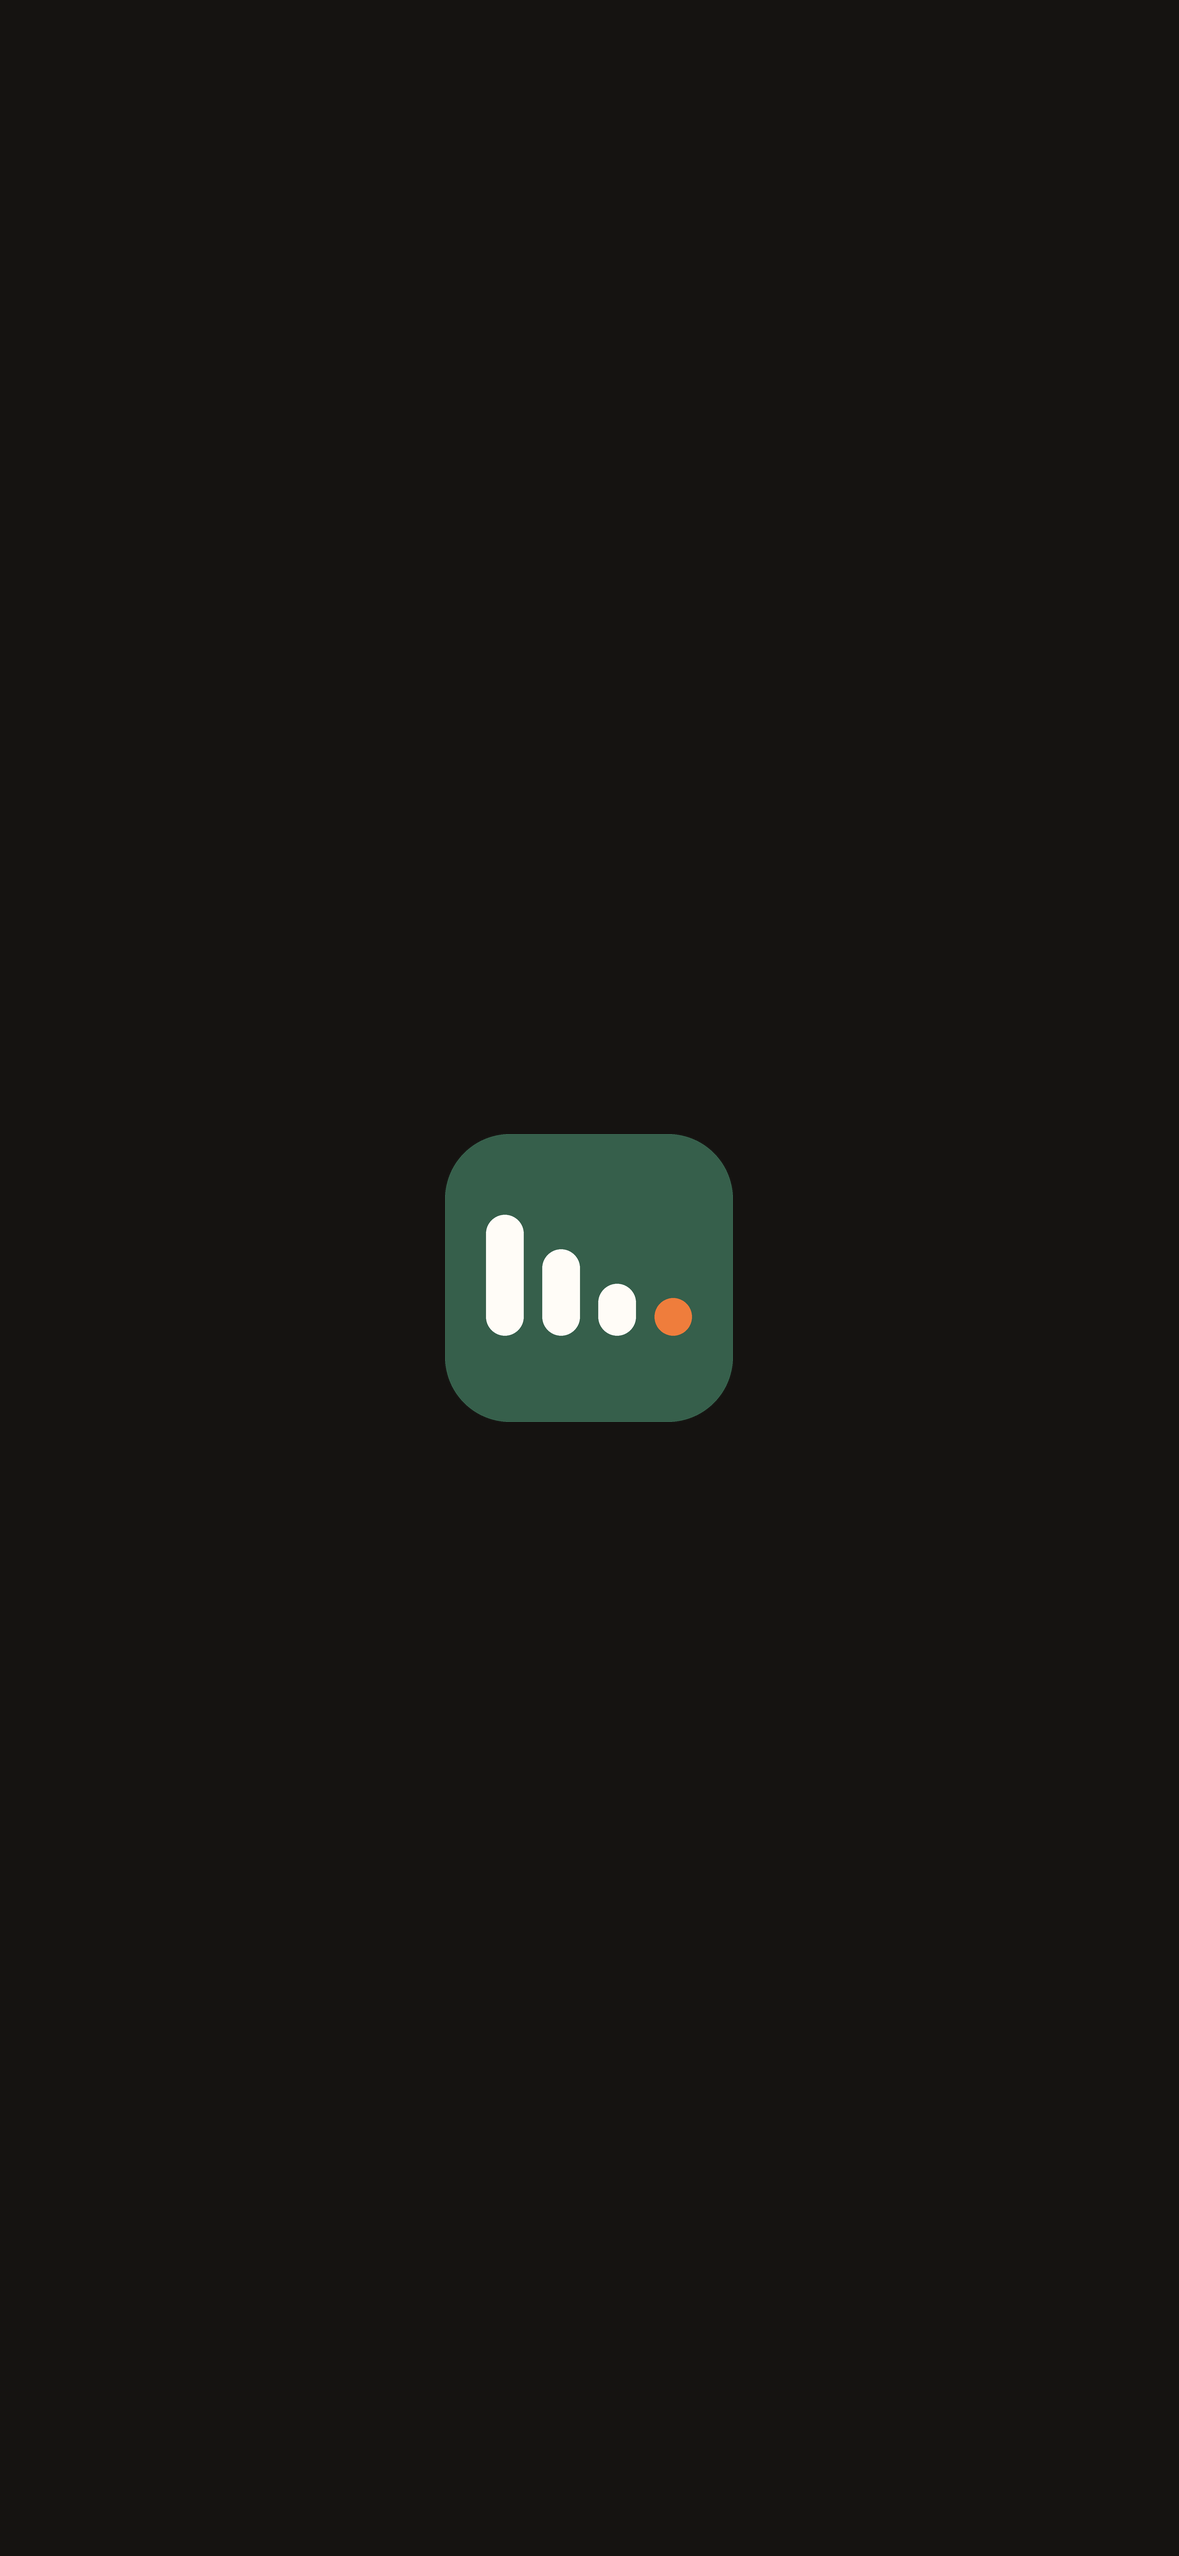
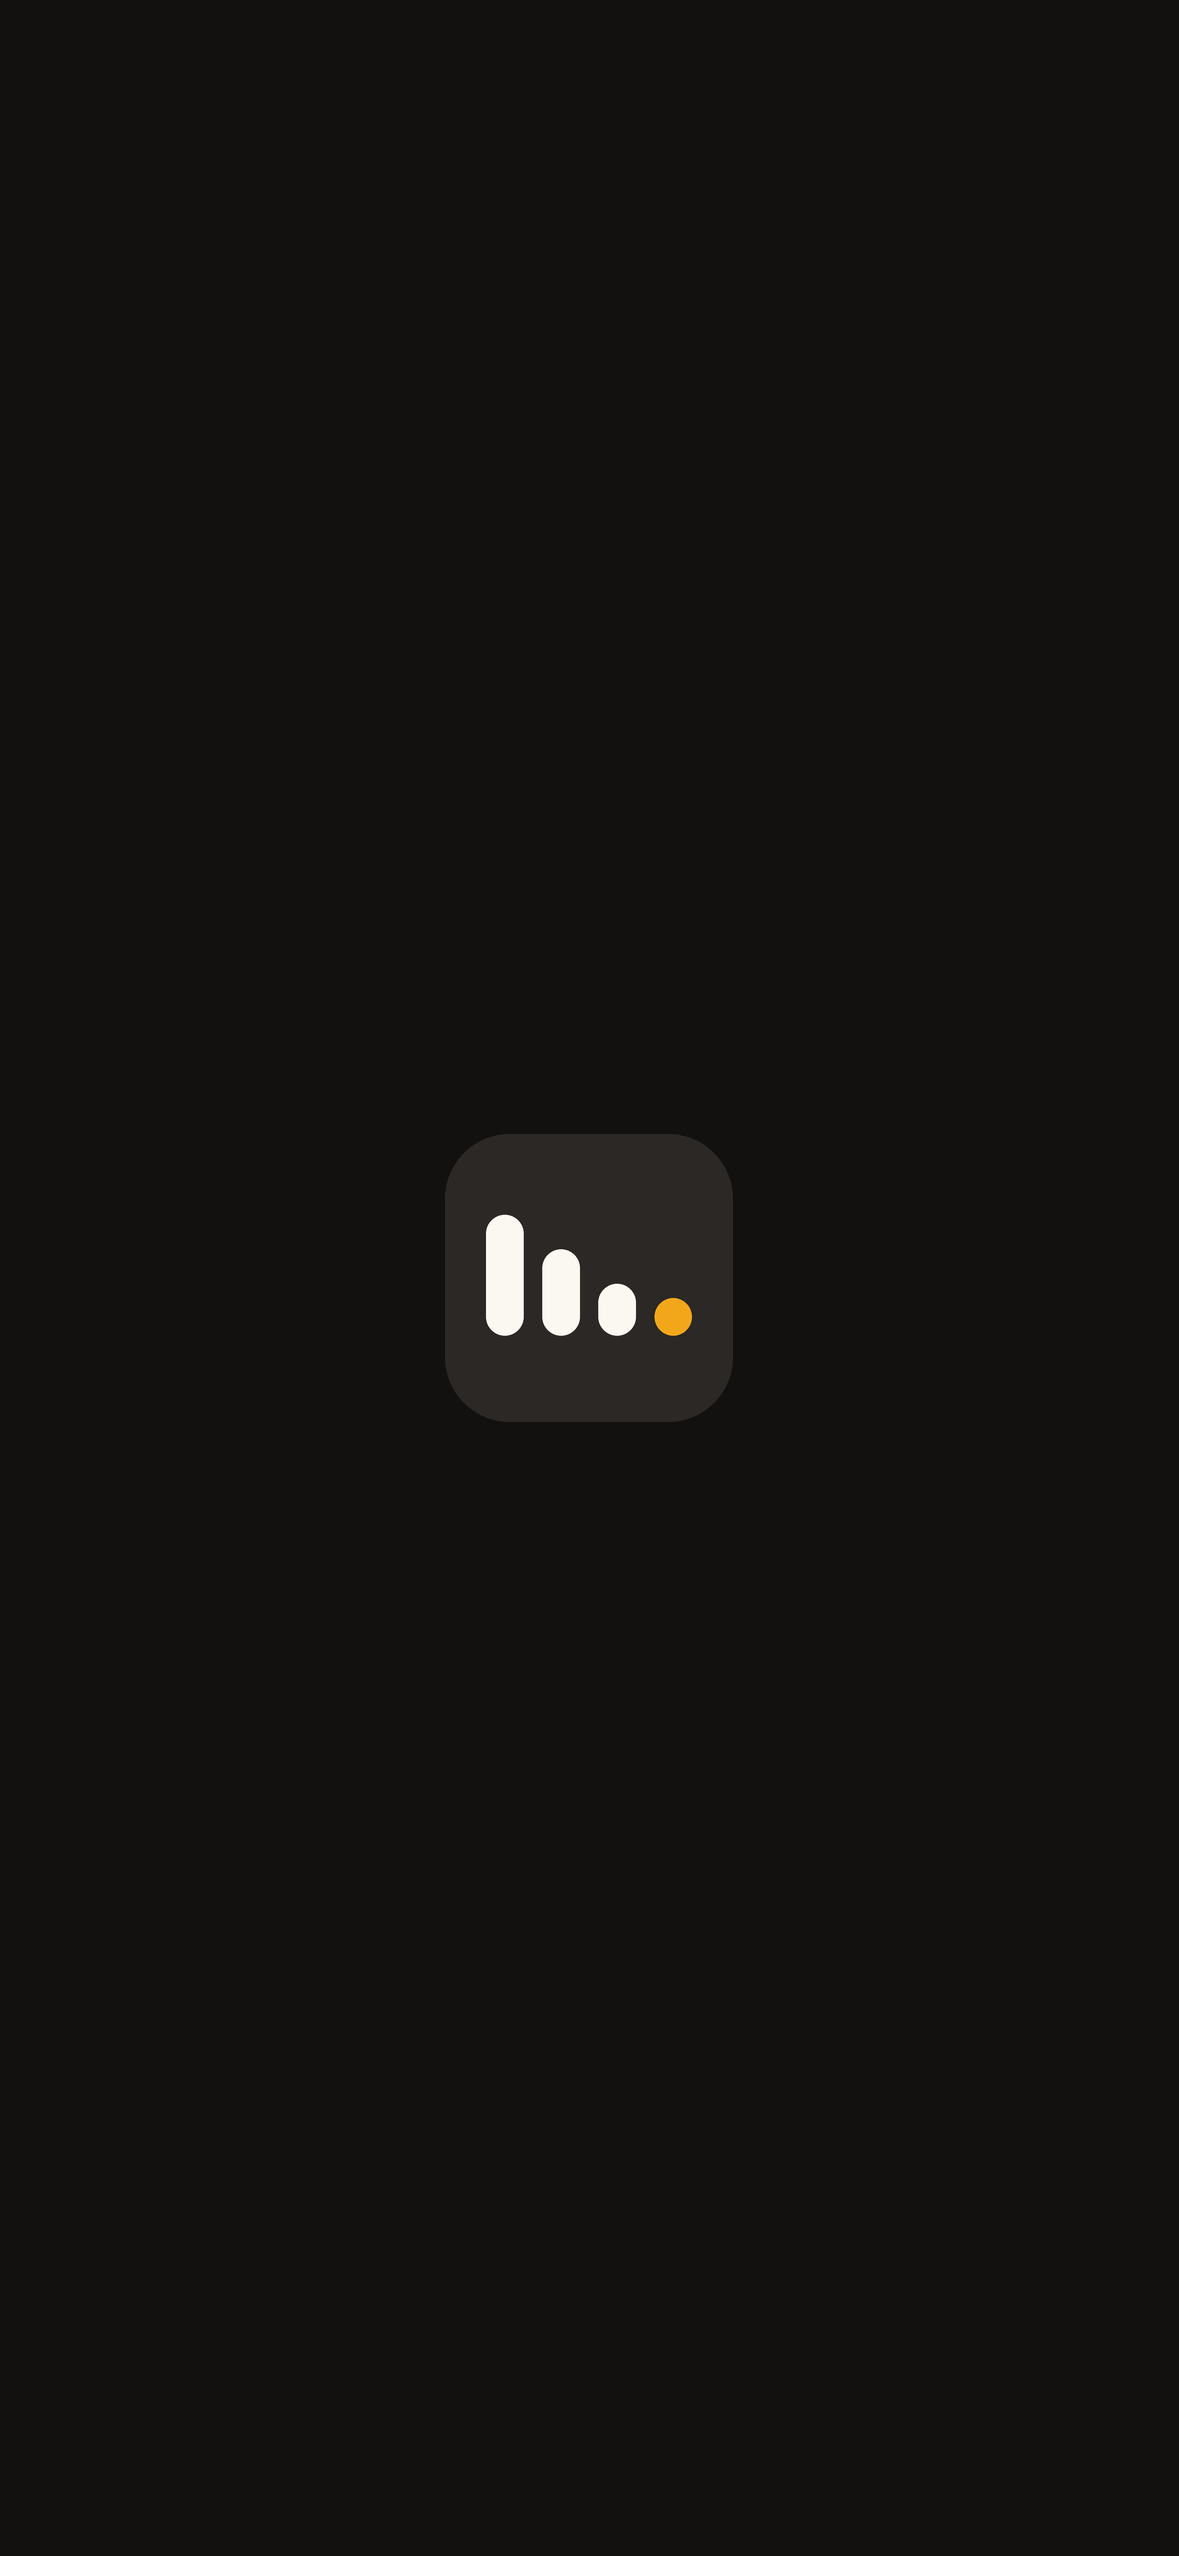
Colores: tinta, cobalto y un rayo de sol (propuesta con apple-design, impeccable y brandkit)
- Neutros casi grises con un punto de calidez, tarjeta de Resumen en tinta, acción en cobalto
- Amarillo caléndula solo en detalles: mes elegido, iniciales de cuenta, punto de hoy, sello de todo pagado
- Iconos de categoría en un solo color; solo Ingreso y Sin categoría llevan color
- Barra de Pagos en verde al llegar al 100 %; icono y arranque nuevos
- Todos los pares de texto pasan AA

Claude-Session: https://claude.ai/code/session_018UgVd8pXpkyY3CYoFP76Vs

Changed region(s): [[0.3664, 0.4327, 0.6412, 0.5563]]

diff --git a/docs/index.html b/docs/index.html
@@ -8,8 +8,8 @@
 <meta name="mobile-web-app-capable" content="yes">
 <meta name="apple-mobile-web-app-title" content="Cuentas">
 <meta name="apple-mobile-web-app-status-bar-style" content="default">
-<meta name="theme-color" content="#f6f1e9" media="(prefers-color-scheme: light)">
-<meta name="theme-color" content="#151311" media="(prefers-color-scheme: dark)">
+<meta name="theme-color" content="#f3f3f1" media="(prefers-color-scheme: light)">
+<meta name="theme-color" content="#121110" media="(prefers-color-scheme: dark)">
 <link rel="apple-touch-icon" href="icon.png">
 <link rel="manifest" href="manifest.json">
 <link rel="apple-touch-startup-image" media="(device-width: 375px) and (device-height: 812px) and (-webkit-device-pixel-ratio: 3) and (prefers-color-scheme: light)" href="arranque-375x812.png">
@@ -34,16 +34,16 @@
 <link rel="apple-touch-startup-image" media="(device-width: 375px) and (device-height: 667px) and (-webkit-device-pixel-ratio: 2) and (prefers-color-scheme: dark)" href="arranque-oscuro-375x667@2x.png">
 <style>
 /* Mis cuentas: una web para el móvil que se maneja como una app de iPhone.
-   Un solo sistema: los tokens de :root. Luz cálida (crema), un color de acción (salvia), uno de detalle
-   (naranja: el mes elegido y la pestaña activa) y color de estado solo para avisar. */
+   Un solo sistema: los tokens de :root. Tinta sobre gris apenas cálido, un color de acción (cobalto), una nota de sol (--pop: el mes elegido,
+   las iniciales de cuenta, el punto de hoy, el sello de todo pagado) y color de estado solo para avisar. */
 :root{
   /* color */
-  --bg:#f6f1e9; --surface:#fffcf7; --surface-2:#efe8dd; --field:#efe8dd; --raised:#fffcf7;
-  --ink:#22201c; --muted:#6b645a; --soft:#c9bfb1; --line:rgba(34,32,28,.1);
-  --accent:#2f6b4f; --accent-soft:rgba(47,107,79,.11); --on-accent:#ffffff;
-  --pop:#ef7d3c; --pop-soft:rgba(239,125,60,.18);
-  --good:#17803f; --warn:#a85600; --bad:#d92d20; --on-bad:#ffffff;
-  --glass:rgba(255,252,247,.84); --scrim:rgba(20,18,15,.36); --shadow:0 8px 24px rgba(34,32,28,.08);
+  --bg:#f3f3f1; --surface:#fefefd; --surface-2:#ebebe8; --field:#ebebe8; --raised:#fefefd;
+  --ink:#1c1b19; --muted:#6b6863; --soft:#8f8b85; --line:rgba(28,27,25,.1);
+  --accent:#1f5bd6; --accent-soft:rgba(31,91,214,.1); --on-accent:#ffffff;
+  --pop:#f2a71b; --pop-soft:rgba(242,167,27,.2);
+  --good:#1b7a43; --warn:#9a5b00; --bad:#c8321e; --on-bad:#ffffff;
+  --glass:rgba(254,254,253,.86); --scrim:rgba(18,17,16,.36); --shadow:0 8px 24px rgba(28,27,25,.07);
   /* tipo: crece con el tamaño de texto del iPhone (rem sobre el estilo de texto del sistema) */
   --font:-apple-system,BlinkMacSystemFont,"SF Pro Text",system-ui,"Helvetica Neue",sans-serif;
   --t-display:2.824rem; --t-large:1.647rem; --t-title:1.294rem; --t-body:1rem; --t-sub:.882rem; --t-foot:.765rem; --t-cap:.706rem; --t-tab:11px; /* la barra de pestañas no crece, como en iOS */
@@ -53,20 +53,20 @@
   --r-s:12px; --r-l:20px; --r-full:999px;
   --gutter-l:max(16px,env(safe-area-inset-left,0px)); --gutter-r:max(16px,env(safe-area-inset-right,0px));
   --ease:cubic-bezier(.2,.8,.2,1);
-  --brand:#365f4b; --on-brand:#ffffff;
+  --brand:#1c1b19; --on-brand:#fbf8f2;
   accent-color:var(--accent); caret-color:var(--accent);
 }
 @media (prefers-color-scheme: dark){:root{
-  --bg:#151311; --surface:#211e1a; --surface-2:#2d2924; --field:#35302a; --raised:#28241f;
-  --ink:#f5efe6; --muted:#aea493; --soft:#5a5248; --line:rgba(245,239,230,.1);
-  --accent:#7fcca5; --accent-soft:rgba(127,204,165,.15); --on-accent:#151311;
-  --pop:#ff9a5c; --pop-soft:rgba(255,154,92,.18); --brand:#3d6b55; --on-brand:#ffffff;
-  --good:#3dd68c; --warn:#ffb340; --bad:#ff6b5e; --on-bad:#0e0e12;
-  --glass:rgba(40,36,31,.84); --scrim:rgba(0,0,0,.55); --shadow:0 8px 24px rgba(0,0,0,.35);
+  --bg:#121110; --surface:#1d1b19; --surface-2:#292623; --field:#312e2a; --raised:#24221f;
+  --ink:#f3efe8; --muted:#a8a197; --soft:#77716a; --line:rgba(243,239,232,.1);
+  --accent:#7ea6ff; --accent-soft:rgba(126,166,255,.16); --on-accent:#0f1420;
+  --pop:#ffc24d; --pop-soft:rgba(255,194,77,.18); --brand:#2b2825; --on-brand:#f7f3ec;
+  --good:#4fcf8b; --warn:#f5b04a; --bad:#ff7b67; --on-bad:#1a0d0a;
+  --glass:rgba(36,34,31,.86); --scrim:rgba(0,0,0,.55); --shadow:0 8px 24px rgba(0,0,0,.35);
   color-scheme:dark;
 }}
-@media (prefers-contrast: more){:root{--line:rgba(34,32,28,.32); --muted:#4d473f; --glass:var(--surface)}}
-@media (prefers-contrast: more) and (prefers-color-scheme: dark){:root{--line:rgba(245,239,230,.32); --muted:#cfc6b8}}
+@media (prefers-contrast: more){:root{--line:rgba(28,27,25,.32); --muted:#55524d; --soft:#7a766f; --glass:var(--surface)}}
+@media (prefers-contrast: more) and (prefers-color-scheme: dark){:root{--line:rgba(243,239,232,.32); --muted:#c6bfb4}}
 
 *{box-sizing:border-box}
 [hidden]{display:none!important}
@@ -144,7 +144,7 @@ header.top{display:flex;flex-direction:column;gap:var(--s1);padding-top:var(--s3
 .tabs button{background:none;border:0;border-radius:var(--r-full);display:flex;flex-direction:column;align-items:center;justify-content:center;gap:2px;min-height:52px;padding:4px 0;font-size:var(--t-tab);font-weight:600;color:var(--muted);position:relative;min-width:0}
 .tabs button span.l{max-width:100%;overflow:hidden;text-overflow:ellipsis;white-space:nowrap;padding:0 2px}
 .tabs button svg.i{width:24px;height:24px}
-.tabs button[aria-current="page"]{color:var(--accent);background:var(--pop-soft,var(--accent-soft))}
+.tabs button[aria-current="page"]{color:var(--accent);background:var(--accent-soft)}
 .tabs .dot{position:absolute;top:4px;left:calc(50% + 6px);min-width:18px;height:18px;border-radius:9px;background:var(--bad);color:var(--on-bad);font-size:var(--t-tab);line-height:18px;padding:0 5px;font-weight:700}
 @media (prefers-reduced-transparency: reduce){.tabs,.navbar{background:var(--surface);-webkit-backdrop-filter:none;backdrop-filter:none}}
 
@@ -173,7 +173,6 @@ header.top{display:flex;flex-direction:column;gap:var(--s1);padding-top:var(--s3
 .item .tag{color:var(--warn);font-weight:600}
 .item .meter{grid-column:2/-1;margin-top:6px}
 .ico{--c:var(--muted);width:36px;height:36px;border-radius:var(--r-s);background:var(--surface-2);color:var(--c);display:grid;place-items:center;flex:none}
-@media (prefers-color-scheme: dark){.ico{color:color-mix(in srgb,var(--c) 45%,#fff)}}
 .empty{padding:var(--s4) 0;color:var(--muted)}
 .empty .linkbtn{display:block}
 .lrow{display:flex;justify-content:space-between;align-items:center;gap:var(--s3);min-height:48px;padding:10px 0;border:0;border-top:.5px solid var(--line);background:none;width:100%;text-align:left}
@@ -186,6 +185,7 @@ header.top{display:flex;flex-direction:column;gap:var(--s1);padding-top:var(--s3
 
 /* Resumen: la única tarjeta de color */
 .wallet{--on-brand-2:color-mix(in srgb,var(--on-brand) 86%,transparent);--on-brand-f:color-mix(in srgb,var(--on-brand) 16%,transparent);background:var(--brand);color:var(--on-brand);border-radius:var(--r-l);padding:var(--s5) var(--s4) var(--s4);display:flex;flex-direction:column;box-shadow:var(--shadow)}
+@media (prefers-color-scheme: dark){.wallet{box-shadow:inset 0 0 0 .5px var(--line),var(--shadow)}}
 .wlabel{font-size:var(--t-sub);font-weight:600;color:var(--on-brand-2)}
 .wbig{font-size:var(--t-num);font-weight:700;letter-spacing:-.02em;line-height:1.05;margin:2px 0 4px}
 .wsub{font-size:var(--t-sub);color:var(--on-brand-2);margin-bottom:var(--s3)}
@@ -193,7 +193,7 @@ header.top{display:flex;flex-direction:column;gap:var(--s1);padding-top:var(--s3
 .wacc{display:flex;gap:var(--s2);overflow-x:auto;scrollbar-width:none;margin:var(--s2) calc(-1 * var(--s4)) 0;padding:0 var(--s4)}
 .wacc::-webkit-scrollbar{display:none}
 .chip-acc{flex:none;display:flex;align-items:center;gap:var(--s2);border:0;border-radius:var(--r-full);min-height:44px;padding:0 14px 0 6px;color:var(--on-brand);font-size:var(--t-sub);background:var(--on-brand-f)}
-.chip-acc i{width:32px;height:32px;border-radius:50%;display:grid;place-items:center;font-style:normal;font-weight:700;font-size:var(--t-foot);background:var(--on-brand-f)}
+.chip-acc i{width:32px;height:32px;border-radius:50%;display:grid;place-items:center;font-style:normal;font-weight:700;font-size:var(--t-foot);background:var(--on-brand-f);box-shadow:inset 0 0 0 1.5px var(--pop)}
 .chip-acc span{font-weight:600} .chip-acc b{font-weight:500}
 .wact{display:grid;grid-template-columns:repeat(auto-fit,minmax(8rem,1fr));gap:var(--s2);margin-top:var(--s4)}
 .wact button{border:0;display:flex;align-items:center;justify-content:center;gap:var(--s2);min-height:48px;padding:6px 14px;border-radius:var(--r-full);font-size:var(--t-sub);font-weight:600;color:var(--on-brand);background:var(--on-brand-f)}
@@ -206,7 +206,8 @@ header.top{display:flex;flex-direction:column;gap:var(--s1);padding-top:var(--s3
 .hero .big{font-size:var(--t-num);font-weight:700;letter-spacing:-.02em;line-height:1.05}
 .hero .big.txt{font-size:calc(var(--t-num) * .8)}
 .hero .status{font-size:var(--t-sub);color:var(--muted);margin-top:2px}
-.hero .status.ok{color:var(--accent);font-weight:600}
+.hero .status.ok{align-self:flex-start;background:var(--pop-soft);color:var(--ink);font-weight:600;padding:4px 10px;border-radius:var(--r-full)}
+.meter.ok i{background:var(--good)}
 .hero .meter{margin-top:var(--s3)}
 
 /* El mes que viene */
@@ -747,12 +748,8 @@ function render(){
 
 // ---------- resumen ----------
 function deudaActual(){ return D.deudas.filter(d => !d.pagada).reduce((s,d) => s + d.pendiente, 0); }
-// Cada categoría con su tono: el icono en color sobre un fondo suave del mismo color.
-const TONO = {'Restaurantes':'#ea580c','Supermercado':'#16a34a','Transporte':'#2563eb','Compras':'#db2777','Viajes':'#0891b2','Ocio':'#9333ea',
-  'Salidas de noche':'#7c3aed','Suscripciones':'#e11d48','Vivienda':'#b45309','Salud':'#dc2626','Deporte':'#0d9488','Cuidado personal':'#c026d3',
-  'Teléfono e internet':'#0284c7','Impuestos':'#57534e','Ingreso':'#15803d','Movimiento interno':'#64748b','Pago de deuda':'#c2410c','Entre personas':'#6d5bd0',
-  'Bizum':'#0e7490','Tabaco':'#78716c','Apuestas':'#a16207','Comisiones':'#64748b','Educación':'#1d4ed8','Multas':'#b91c1c','Efectivo':'#15803d'};
-const tono = cat => TONO[cat] || '#64748b';
+// Iconos en un solo color: la categoría se distingue por la forma. Solo llevan color el ingreso (entra) y lo que está sin categoría (pide que lo mires).
+const tono = cat => cat === 'Ingreso' ? 'var(--good)' : cat === 'Sin categoría' ? 'var(--warn)' : 'var(--muted)';
 const icon = cat => `<span class="ico" style="--c:${tono(cat)}" aria-hidden="true">${svg(cat)}</span>`;
 
 function renderResumen(){
@@ -1235,7 +1232,7 @@ function renderMes(){
   $('mesProg').textContent = falta.length ? eur(m.total - m.pagado) : 'Todo pagado';
   $('mesProg').className = 'big num' + (falta.length ? '' : ' txt');
   const pct = m.total ? Math.round(m.pagado / m.total * 100) : 0;
-  $('mesBar').style.width = pct + '%';
+  $('mesBar').style.width = pct + '%'; $('mesMeter').classList.toggle('ok', pct >= 100);
   $('mesMeter').setAttribute('role', 'img'); $('mesMeter').setAttribute('aria-label', `Pagado el ${pct} %`);
   $('mesFalta').className = 'status' + (falta.length ? '' : ' ok');
   $('mesFalta').textContent = falta.length ? `${falta.length} ${falta.length === 1 ? 'pago' : 'pagos'} · llevas ${eur(m.pagado)} de ${eur(m.total)}` : `${m.items.length} pagos, ${eur(m.total)} en total`;
@@ -1446,7 +1443,7 @@ function debtChart(start, plan, now, hoyV){
     <line x1="${L}" x2="${W-R}" y1="${H-B}" y2="${H-B}" stroke="var(--line)"/>
     <path d="${area}" fill="var(--accent-soft)"/>
     <path d="${line}" fill="none" stroke="var(--muted)" stroke-width="2.5" stroke-dasharray="7 6" stroke-linejoin="round"/>
-    <circle cx="${x(ni)}" cy="${y(hoyV)}" r="8" fill="var(--accent)" stroke="var(--surface)" stroke-width="3"/>
+    <circle cx="${x(ni)}" cy="${y(hoyV)}" r="8" fill="var(--pop)" stroke="var(--ink)" stroke-width="2"/>
     ${years.map(p => `<text x="${x(p.i)}" y="${H-6}" text-anchor="${p.i === 0 ? 'start' : 'middle'}">${p.i === 0 ? monthName(pts[0].mes,{month:'short'}).replace('.','') + ' ' + p.y : p.y}</text>`).join('')}
     <text x="${W-R}" y="${y(0) - 12}" text-anchor="end">0 €</text>
   </svg>`;
